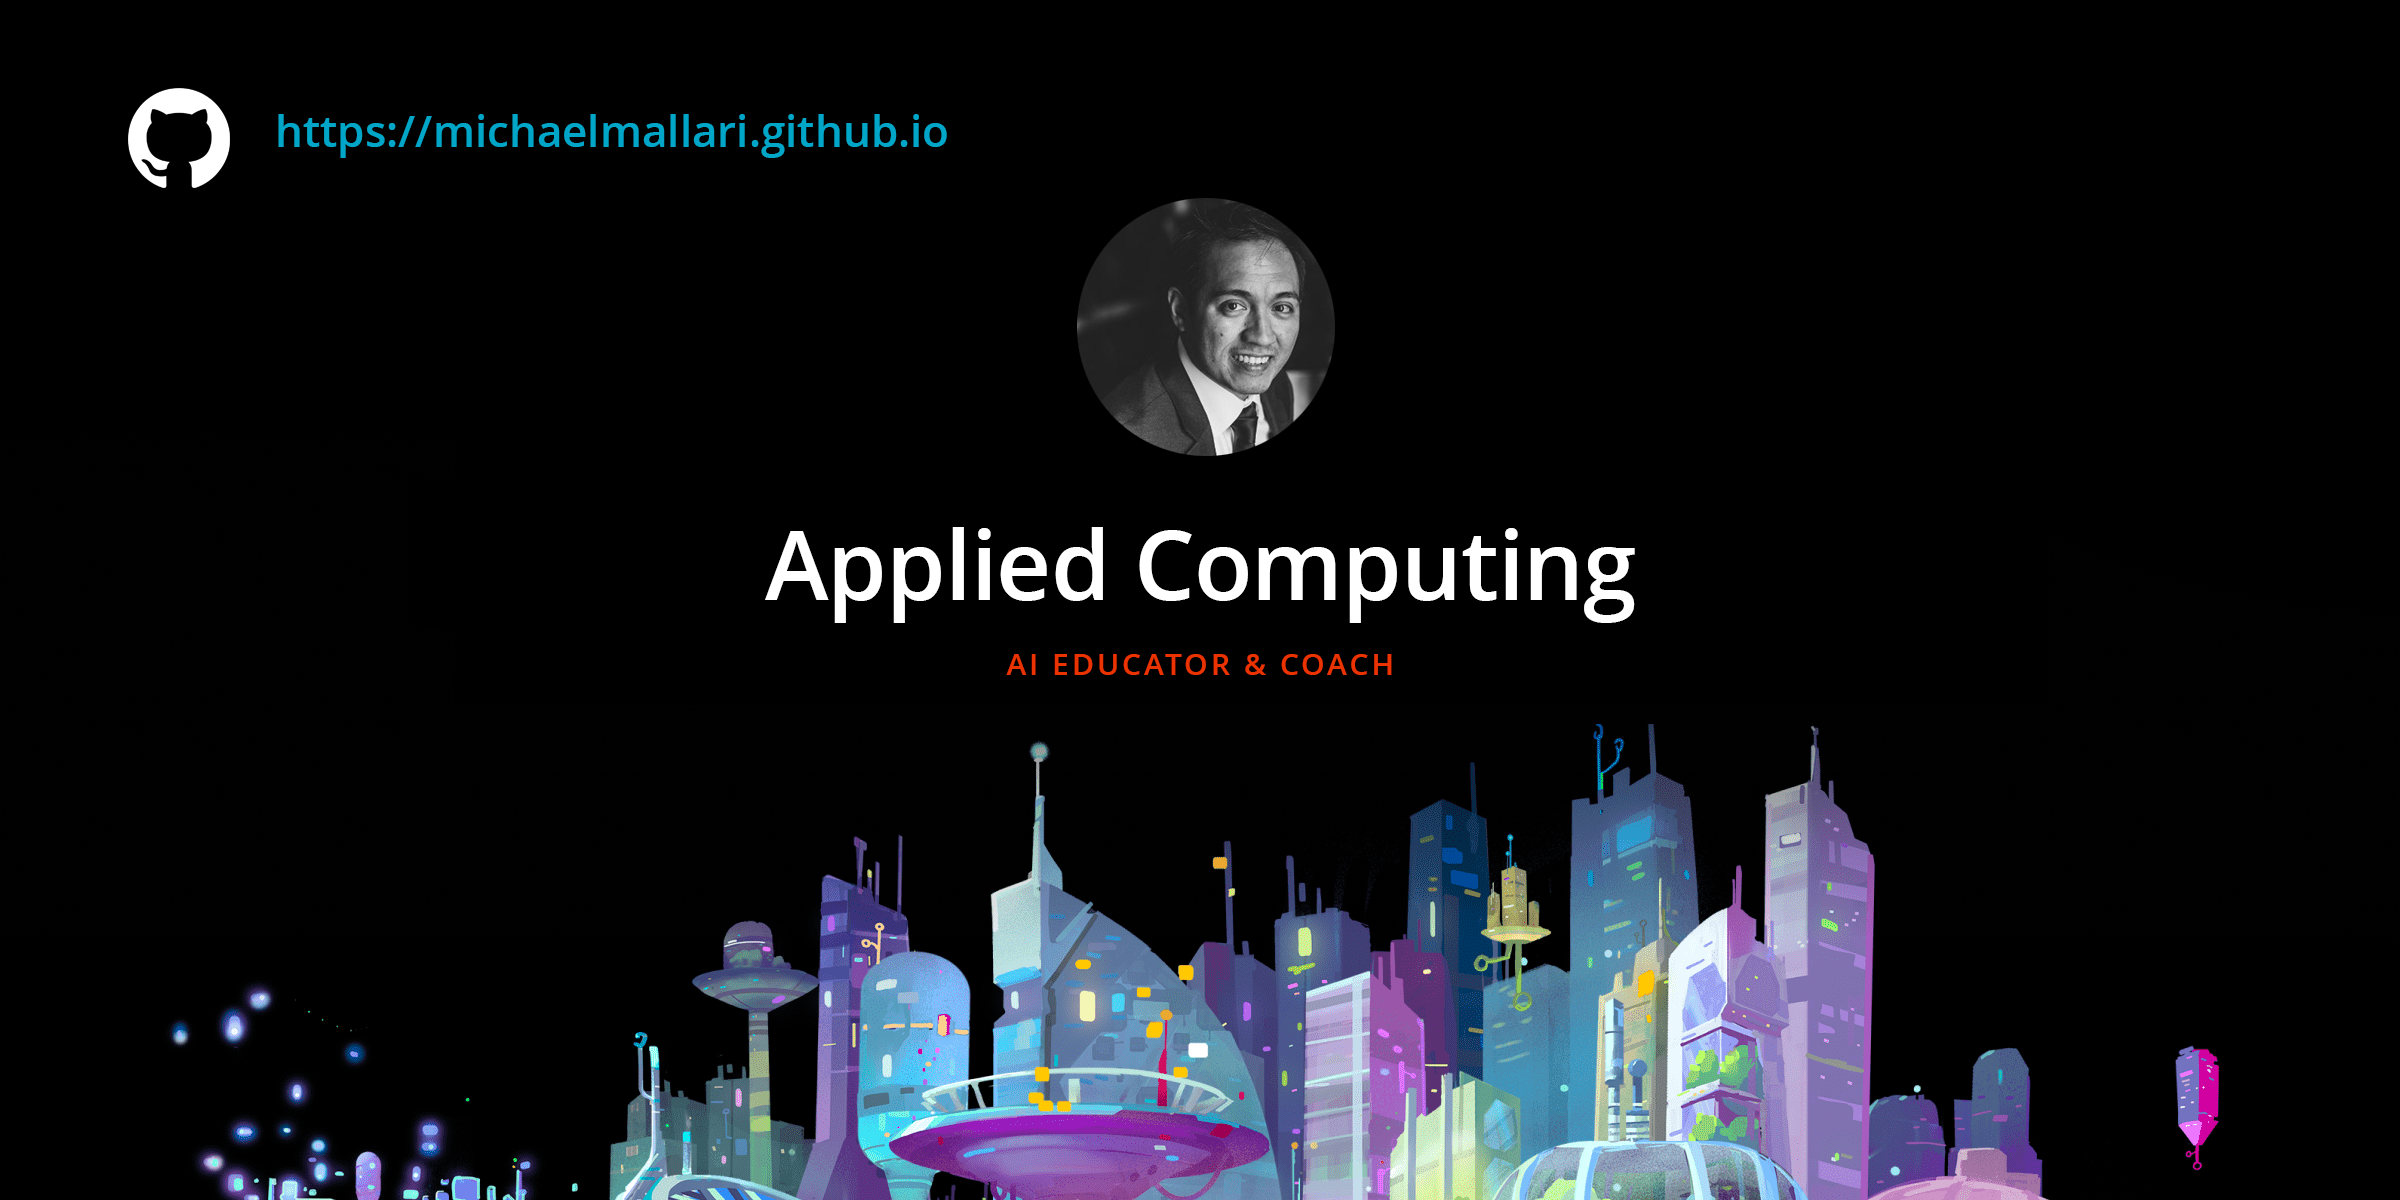
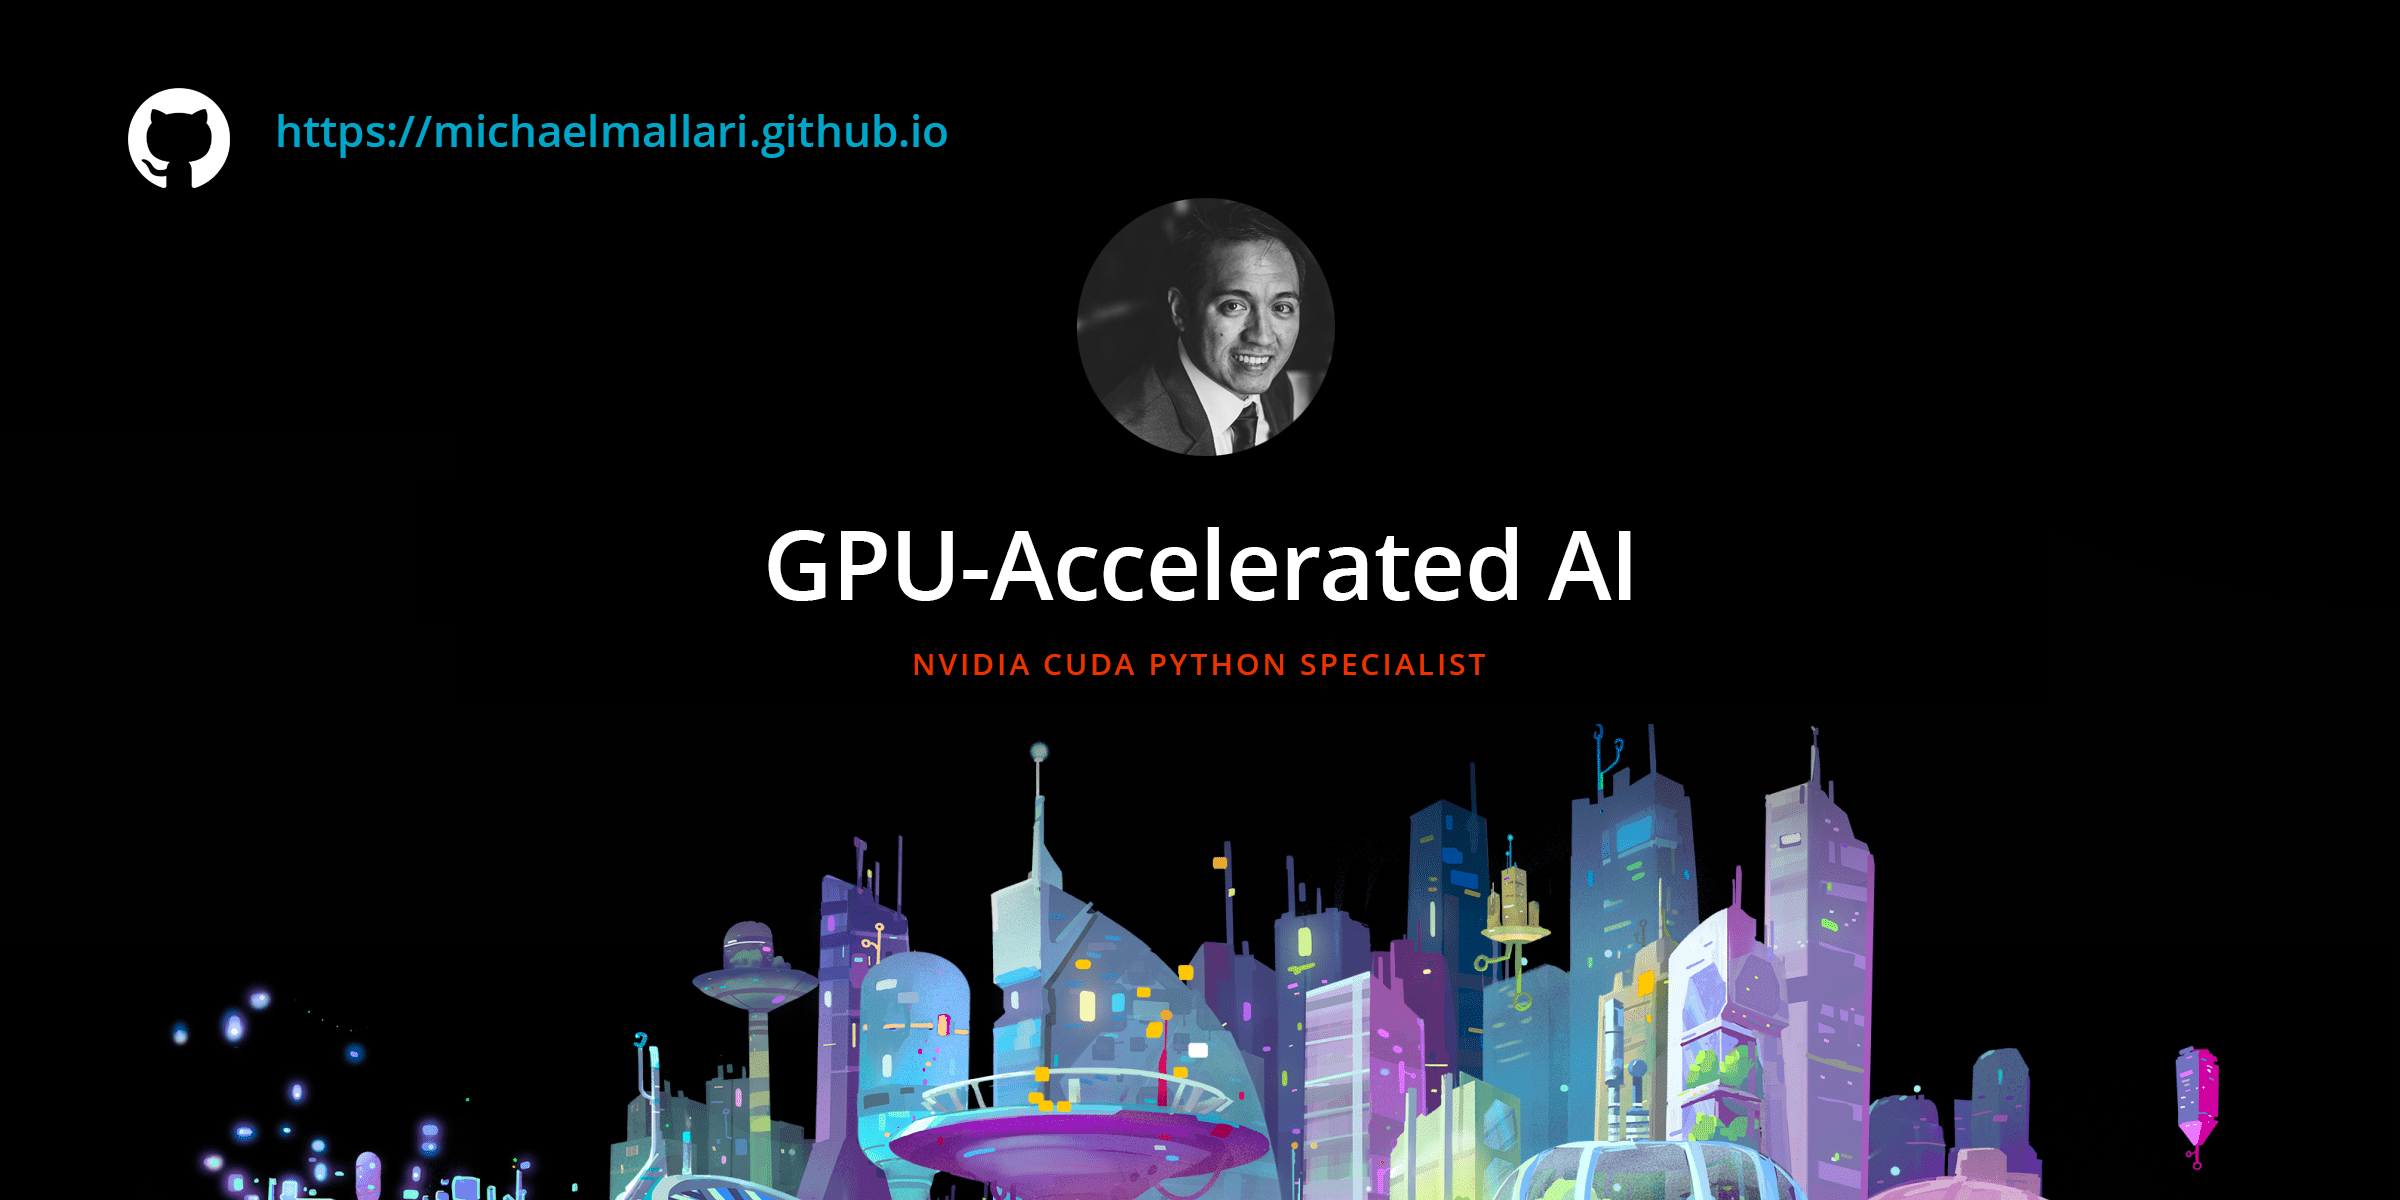
Updated content

Changed region(s): [[0.3125, 0.4317, 0.6875, 0.5858]]

diff --git a/themes/hugo-michaelmallari/layouts/partials/posts-tag.html b/themes/hugo-michaelmallari/layouts/partials/posts-tag.html
@@ -1,0 +1,22 @@
+
+                    <section id="posts-tag" class="posts-list">
+
+{{ range (.Paginator 36).Pages }}
+
+                        <article><a class="title" href="{{ .Params.ExternalLink | default .RelPermalink }}">
+                            <div class="post-thumb height-half-width" style="background-image: url('{{ .Site.BaseURL }}img/{{ if .Params.image }}{{ .Params.image }}{{ else }}og-julia-code.jpg{{ end }}');">
+                                <div class="container height-parent"><svg class="post-thumb-arrow" width="40px" height="16px"><polygon points="20,0 39.978,16 0.023,16" fill="#ffffff"></svg></div>
+                            </div>
+                            <div class="post-details">
+                                <div class="container">
+                                    <div class="category">{{ .Params.topic | safeHTML }}</div>
+                                    <h2 class="title">{{ .Title | safeHTML }}</h2>
+                                    <p class="excerpt">{{ .Params.summary | safeHTML }}</p>
+                                </div>
+                            </div>
+                        </a></article>
+
+{{ end }}
+
+                        <div style="clear: both;"></div>
+                    </section>

diff --git a/themes/hugo-michaelmallari/layouts/_default/taxonomy.html b/themes/hugo-michaelmallari/layouts/_default/taxonomy.html
@@ -1,0 +1,15 @@
+<!DOCTYPE html>
+<html lang="{{ $.Site.LanguageCode | default "en-us" }}">
+
+{{- partial "head.html" . -}}
+
+    <body id="tag" class="theme-michaelmallari template-taxonomy doing github">
+
+{{- partial "header.html" . -}}
+
+{{- partial "posts-tag.html" . -}}
+
+{{- partial "footer.html" . -}}
+
+    </body>
+</html>

diff --git a/content/tags/deep-learning-frameworks/_index.md b/content/tags/deep-learning-frameworks/_index.md
@@ -1,0 +1,7 @@
+---
+title: "Deep Learning Frameworks"
+summary: "Mastery of PyTorch and Tensorflow APIs for managing GPU memory—optimizing tensor operations and supporting distributed training for handling large neural networks and datasets."
+image: og-nvidia-blackwell-announcement.jpg
+# https://unsplash.com/photos/05A-kdOH6Hw
+---
+

diff --git a/content/tags/numba-custom-cuda-kernels/_index.md b/content/tags/numba-custom-cuda-kernels/_index.md
@@ -1,0 +1,7 @@
+---
+title: "Numba & Custom CUDA Kernels"
+summary: "Highly efficient, custom GPU kernels tailored to specific tasks—leading to significant speedups in model training, simulation, and large-scale data processing."
+image: og-nvidia-blackwell-announcement.jpg
+# https://unsplash.com/photos/05A-kdOH6Hw
+---
+

diff --git a/content/tags/distributed-scalable-computing/_index.md b/content/tags/distributed-scalable-computing/_index.md
@@ -1,0 +1,7 @@
+---
+title: "Distributed & Scalable Computing"
+summary: "Capabilities to process and analyze ever-growing datasets efficiently—leading to model accuracy, research productivity, and real-world impact."
+image: og-nvidia-blackwell-announcement.jpg
+# https://unsplash.com/photos/05A-kdOH6Hw
+---
+

diff --git a/content/tags/cupy-rapids/_index.md b/content/tags/cupy-rapids/_index.md
@@ -1,0 +1,7 @@
+---
+title: "CuPy & RAPIDS"
+summary: "Accelerated data pipelines and reduced processing times from hours to minutes—handling datasets that are too large for traditional CPU memory."
+image: og-nvidia-blackwell-announcement.jpg
+# https://unsplash.com/photos/05A-kdOH6Hw
+---
+
